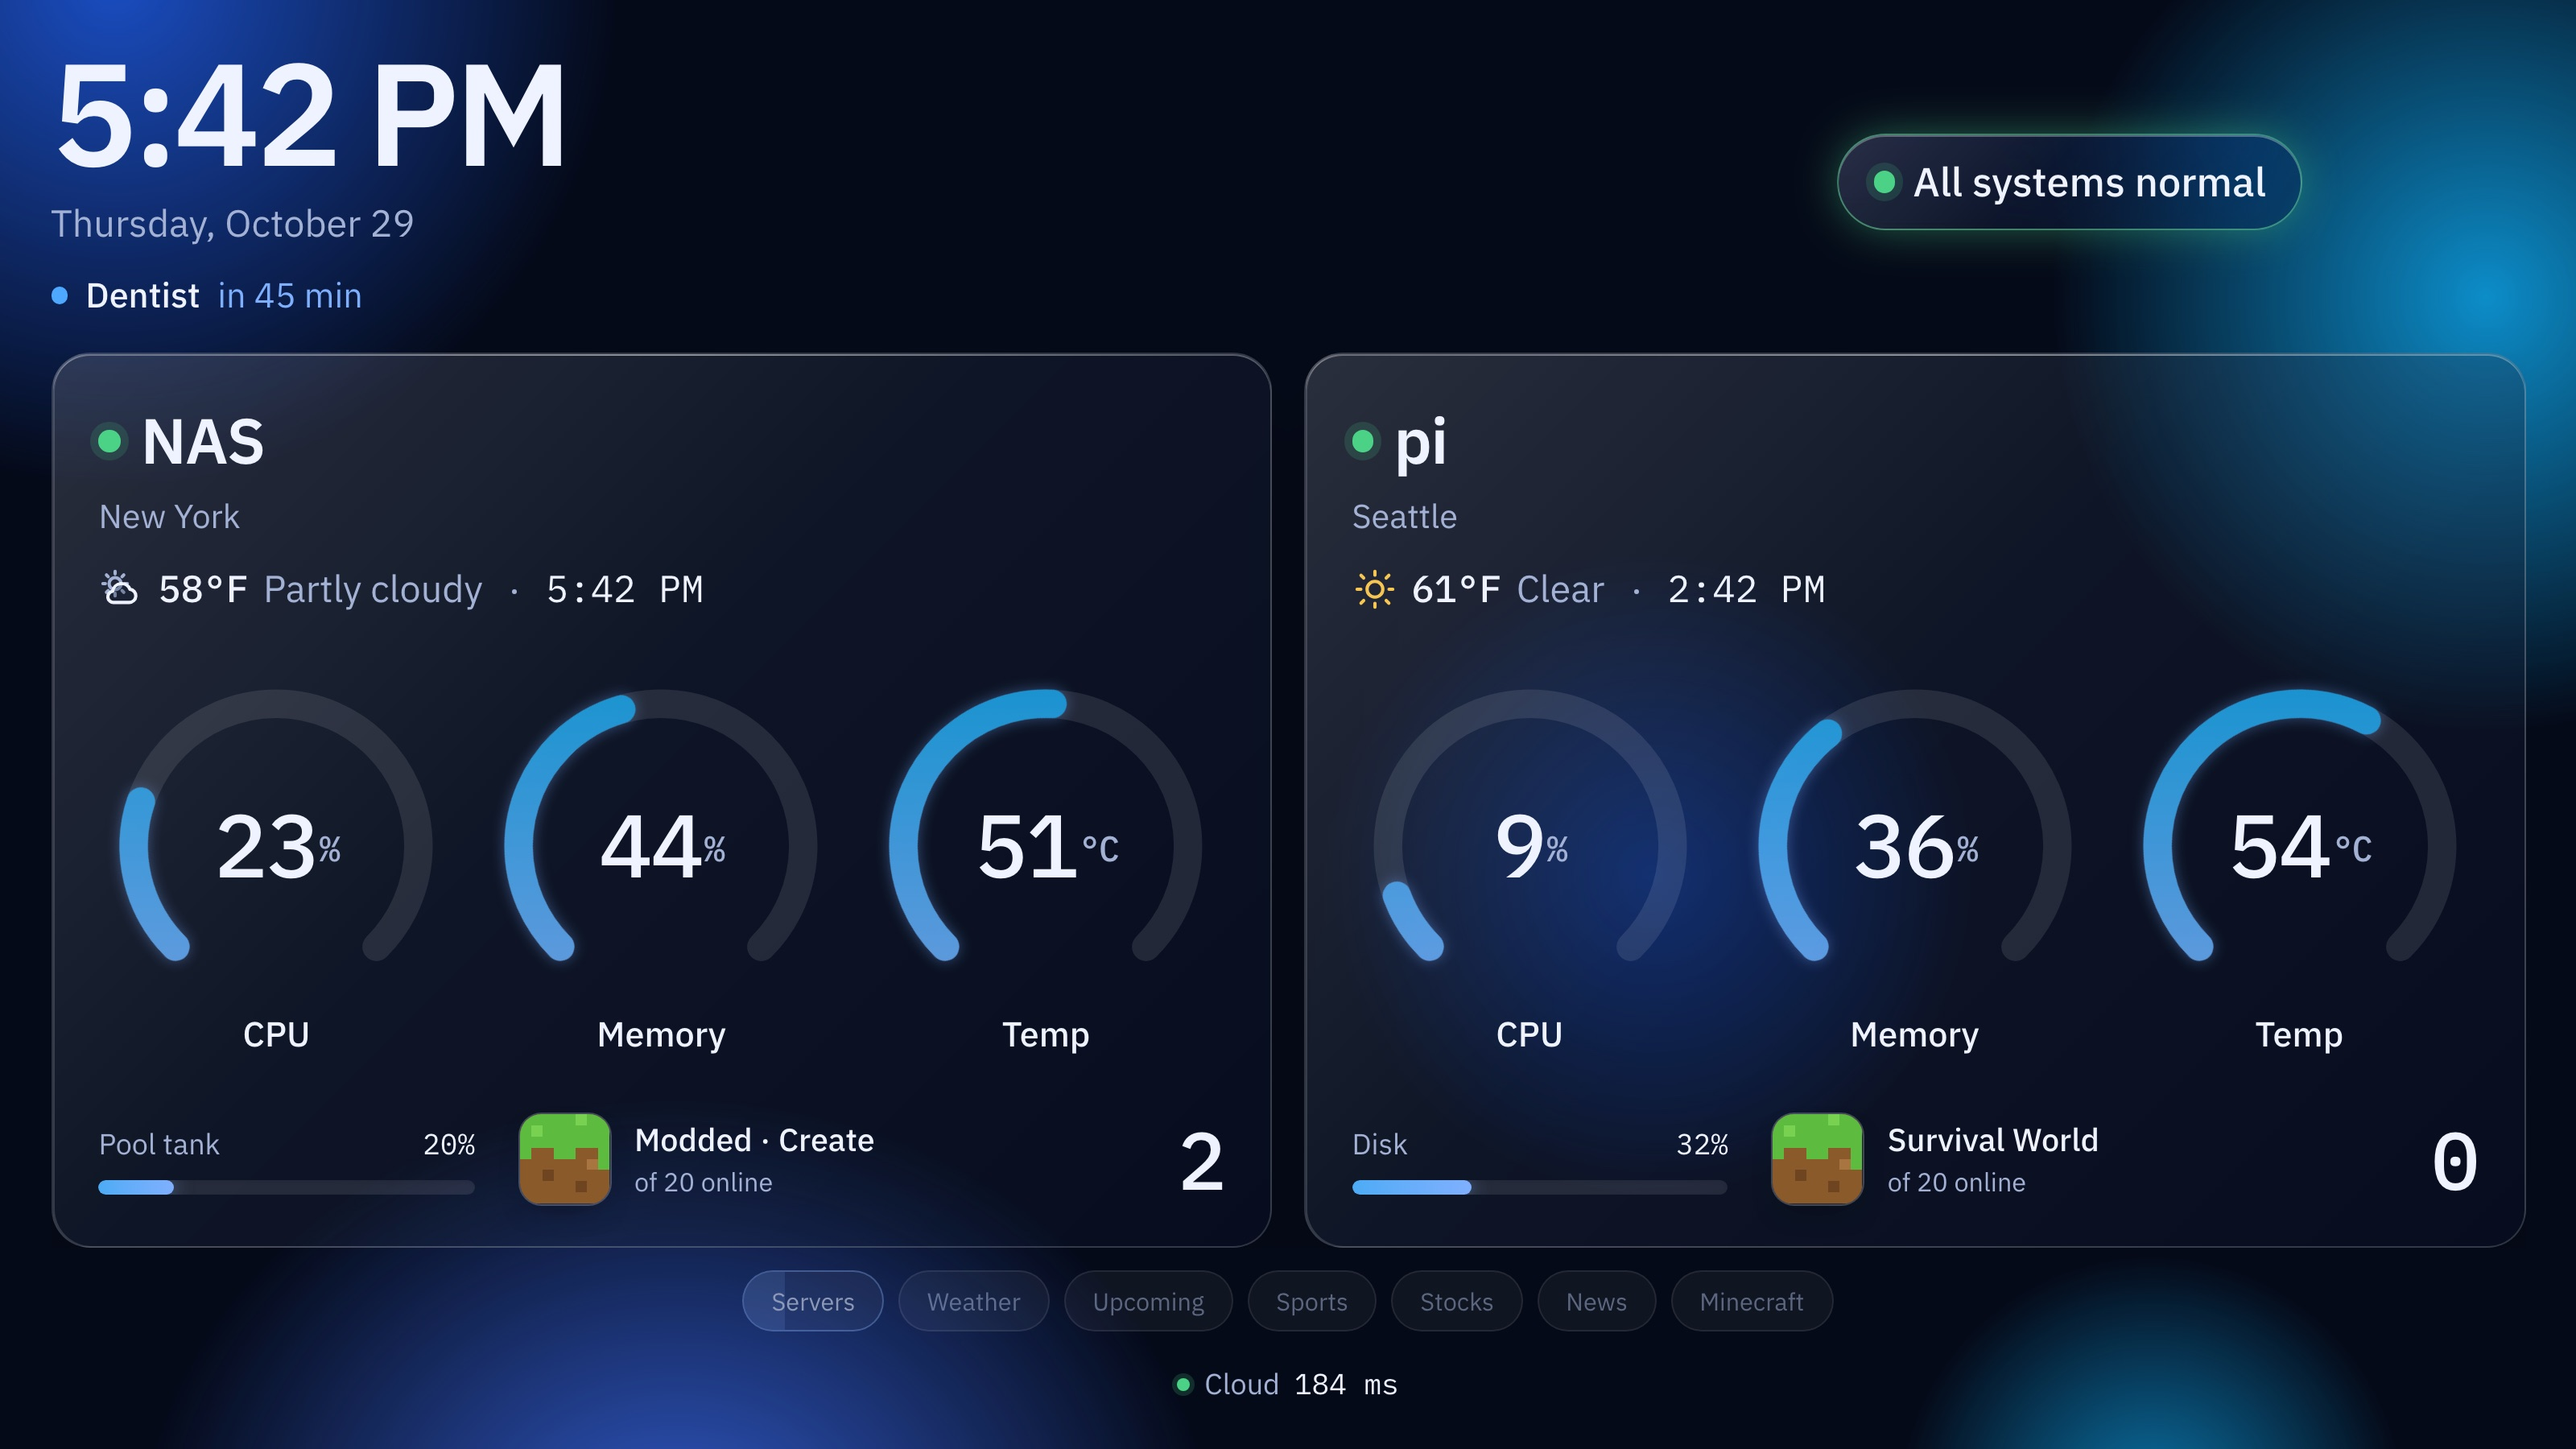
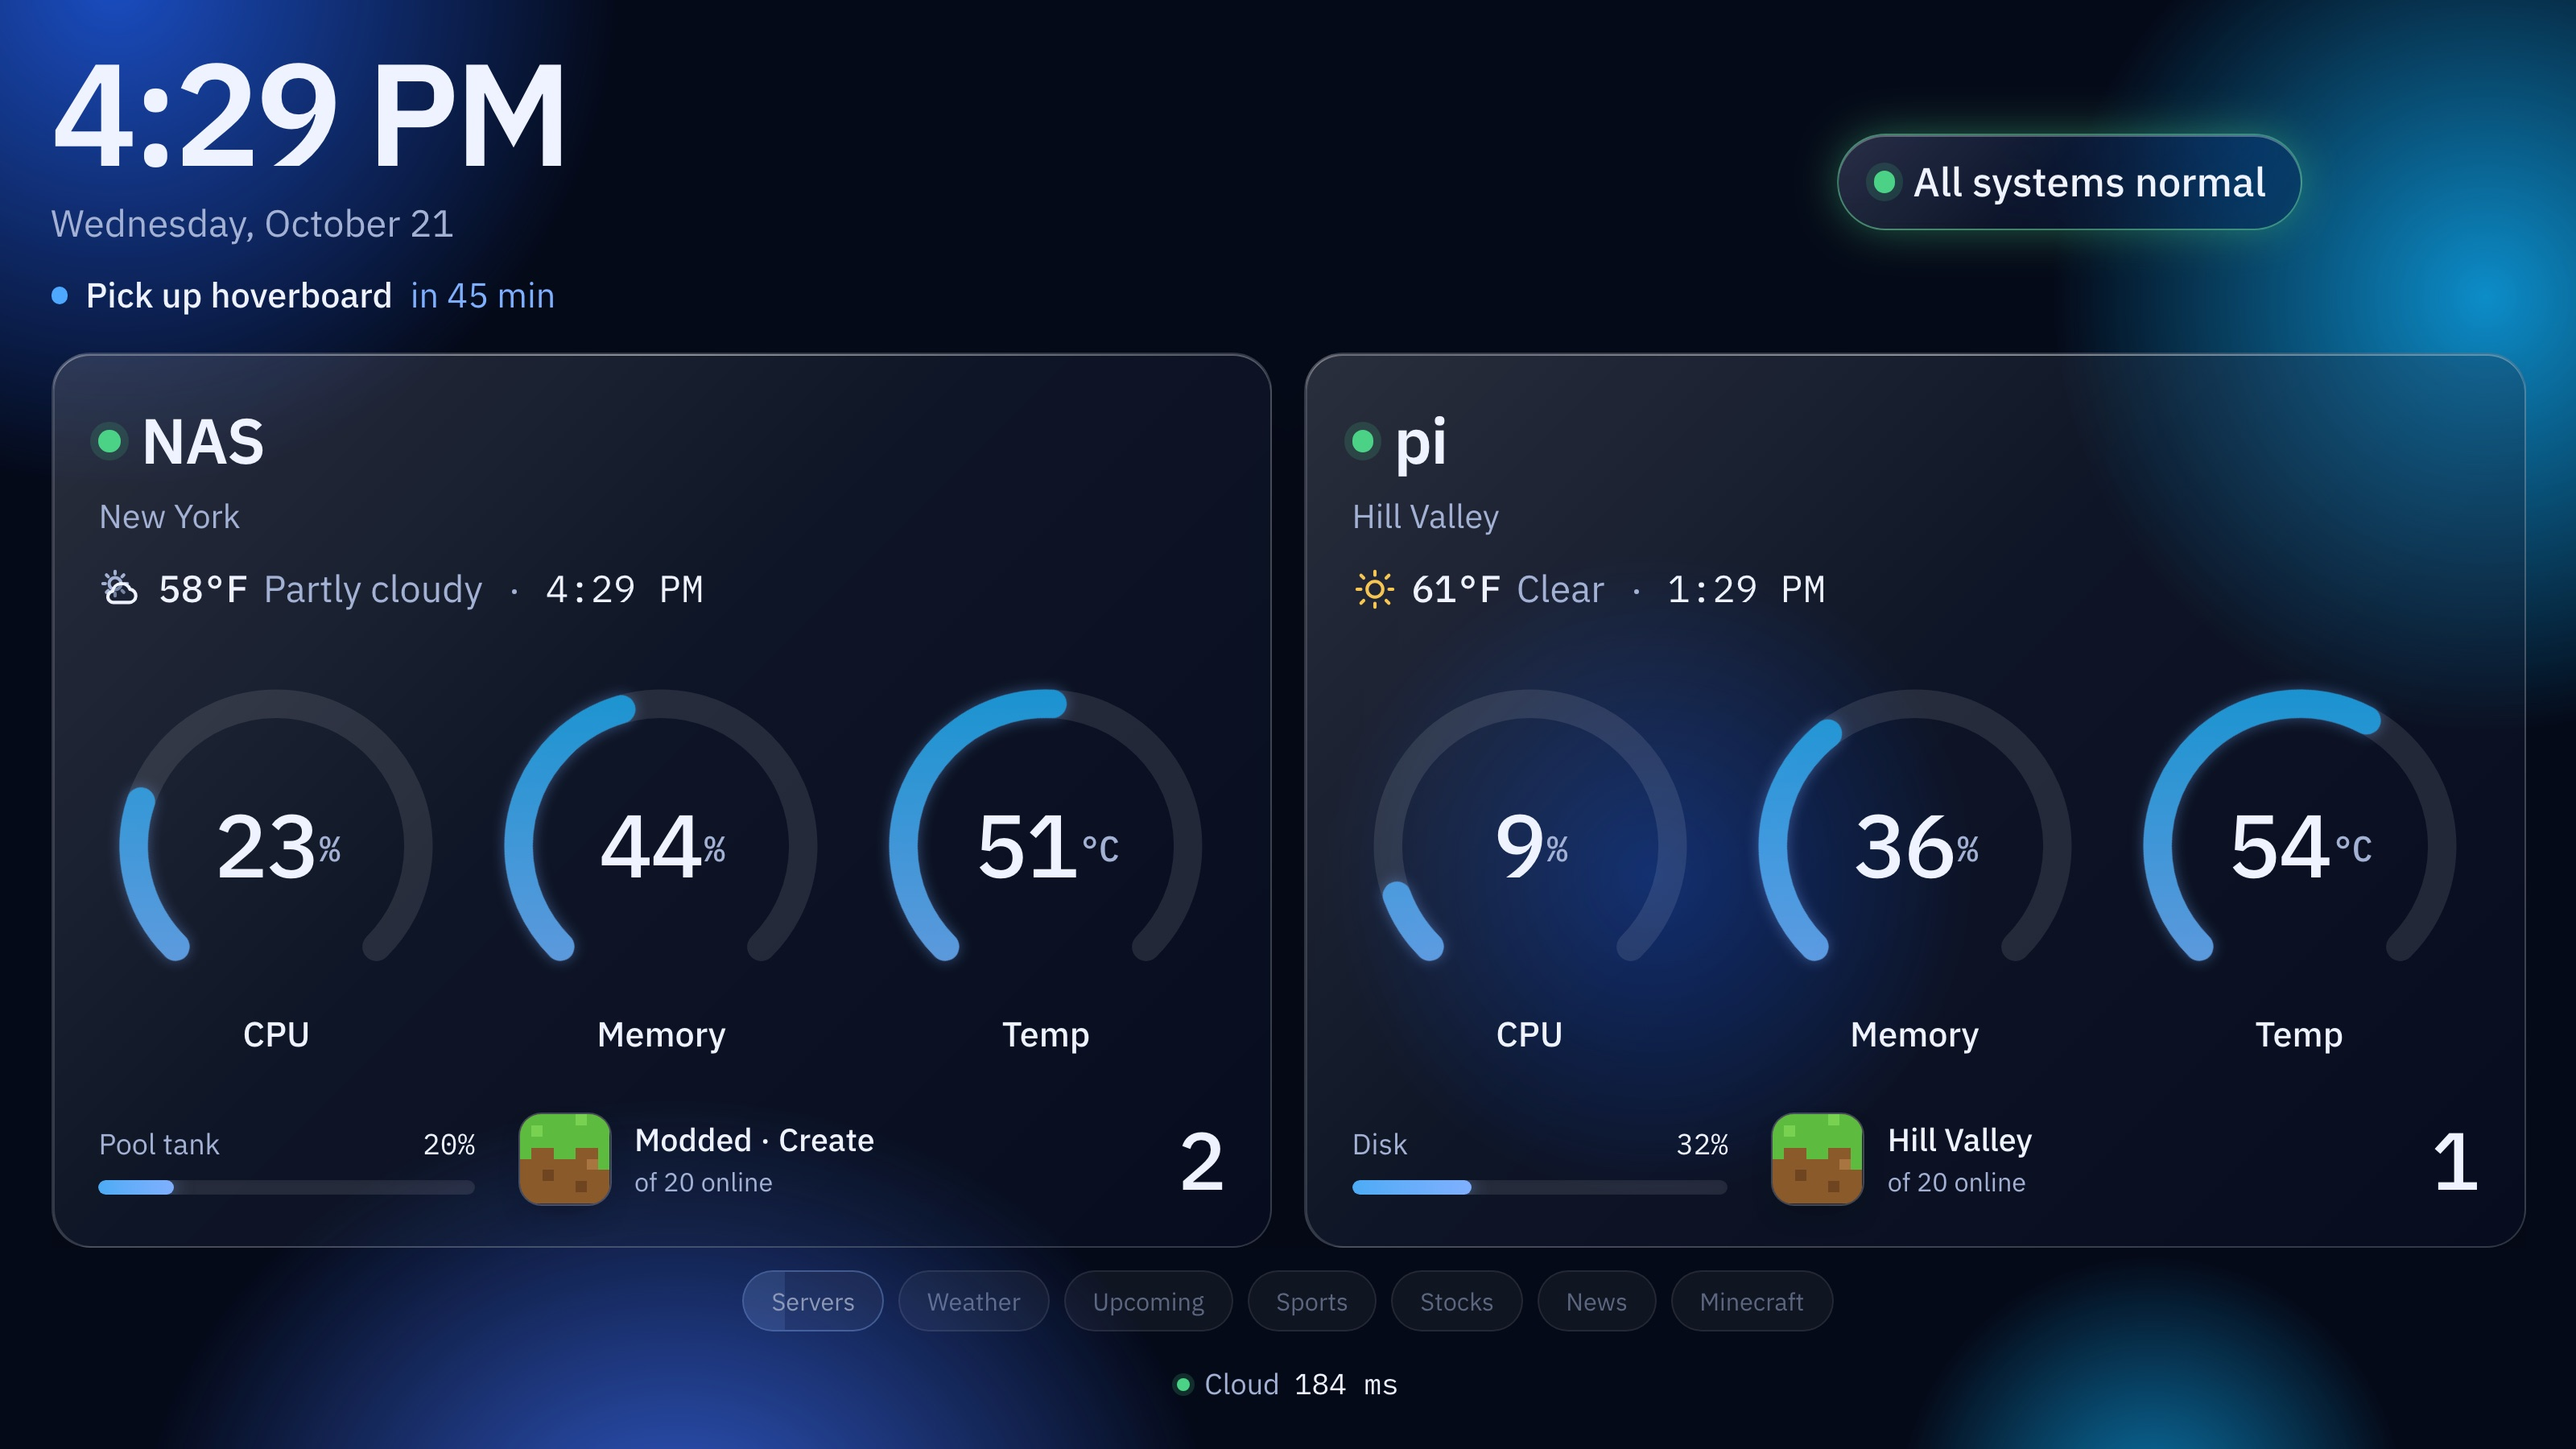
Screenshots and demo data with a few easter eggs

diff --git a/lib/demo.ts b/lib/demo.ts
@@ -51,7 +51,7 @@ function healthy(): Status {
           { board_vendor: "Gigabyte Technology Co., Ltd.", board_name: "B550M DS3H", kernel: "6.12.105-production+truenas" },
           "25.04.2",
         ),
-        minecraft: { label: "Modded · Create", address: "mc.example.com", online: true, players_online: 2, players_max: 20, players: ["Alex", "Steve"], version: "NeoForge 1.21.1", motd: "Create + Steam \x27n\x27 Rails", ping_ms: 3,
+        minecraft: { label: "Modded · Create", address: "mc.example.com", online: true, players_online: 2, players_max: 20, players: ["Marty", "Doc"], version: "NeoForge 1.21.1", motd: "Create + Steam \x27n\x27 Rails", ping_ms: 3,
           mods: {
             loader: "NeoForge 1.21.1",
             mods: [
@@ -63,13 +63,13 @@ function healthy(): Status {
           } },
       },
       {
-        id: "pi", name: "pi", location: "Seattle", kind: "pi", reachable: true,
+        id: "pi", name: "pi", location: "Hill Valley", kind: "pi", reachable: true,
         tz: "America/Los_Angeles", weather: { temp: 61, code: 0, is_day: true, high: 85, low: 72, unit: "F" },
         stats: { cpu_percent: 9.1, cores: 4, temp_c: 54.3, mem_used: 2.9 * GiB, mem_total: 8 * GiB, disk_used: 38 * GiB, disk_total: 117 * GiB, uptime_seconds: 302400, load: [0.38, 0.41, 0.36] },
         cpu_history: hist(8, 5),
         specs: piSpecs({ model: "Raspberry Pi 5 Model B Rev 1.1", cpu: "Arm Cortex-A76", cores: 4, cpu_max_mhz: 2400, mem_total: 7.87 * GiB,
           disk_size: 31914983424, disk_type: "microSD", os: "Debian GNU/Linux 13 (trixie)", kernel: "6.12.75+rpt-rpi-2712" }),
-        minecraft: { label: "Survival World", address: "", online: true, players_online: 0, players_max: 20, players: [], version: "1.21.10", motd: "Survival World", ping_ms: 41 },
+        minecraft: { label: "Hill Valley", address: "", online: true, players_online: 1, players_max: 20, players: ["Einstein"], version: "1.21.10", motd: "1.21 gigawatts", ping_ms: 41 },
       },
     ],
     links: [{ name: "Cloud", url: "https://cloud.example.com", up: true, code: 200, ms: 184 }],

diff --git a/lib/useCalendar.ts b/lib/useCalendar.ts
@@ -26,11 +26,12 @@ function demoCalendar(): CalendarData {
     updated: Date.now(),
     errors: [],
     events: [
-      ev("Dentist", "Personal", "#4ea8ff", soon.toISOString(), new Date(soon.getTime() + 3600e3).toISOString(), false, "Main St"),
-      ev("Minecraft build night", "Personal", "#4ea8ff", at(0, 20), at(0, 22)),
-      ev("Day off", "Work", "#34d3c0", day(1), day(2), true),
-      ev("Team sync", "Work", "#34d3c0", at(2, 10), at(2, 10, 30)),
-      ev("Swap Pi to SSD", "Personal", "#4ea8ff", at(3, 15), at(3, 16)),
+      ev("Pick up hoverboard", "Personal", "#4ea8ff", soon.toISOString(), new Date(soon.getTime() + 3600e3).toISOString(), false, "Courthouse Square"),
+      ev("Enchantment Under the Sea dance", "Personal", "#4ea8ff", at(0, 20), at(0, 22)),
+      ev("Lightning hits the clock tower", "Personal", "#4ea8ff", at(0, 22, 4), at(0, 22, 5)),
+      ev("Jaws 19 premiere", "Work", "#34d3c0", day(1), day(2), true),
+      ev("Lunch at Caf\u00e9 80\u2019s", "Work", "#34d3c0", at(2, 12), at(2, 13)),
+      ev("Refuel Mr. Fusion", "Personal", "#4ea8ff", at(3, 15), at(3, 16)),
     ],
   };
 }

diff --git a/components/Scoreboard.tsx b/components/Scoreboard.tsx
@@ -248,8 +248,8 @@ function demoGames(): LiveGame[] {
       broadcast: "FOX",
       away: { abbr: "BOS", name: "Red Sox", color: "#bd3039", score: 3, record: "97-65", lines: [0, 1, 0, 2, 0, 0, 0], mine: false, hits: 7, errors: 1, logo: "https://a.espncdn.com/i/teamlogos/mlb/500/bos.png" },
       home: { abbr: "NYY", name: "Yankees", color: "#0c2340", score: 4, record: "92-70", lines: [1, 0, 0, 0, 3, 0, 0], mine: true, hits: 8, errors: 0, logo: "https://a.espncdn.com/i/teamlogos/mlb/500/nyy.png" },
-      situation: { balls: 2, strikes: 1, outs: 1, bases: [true, false, true], batter: "J. Smith", pitcher: "D. Jones" },
-      lastPlay: "Single to right field, runner to third.",
+      situation: { balls: 2, strikes: 1, outs: 1, bases: [true, false, true], batter: "B. Tannen", pitcher: "G. McFly" },
+      lastPlay: "Tannen fouls one off the clock tower. Make like a tree.",
     },
   ];
 }

diff --git a/components/home/CountdownsCard.tsx b/components/home/CountdownsCard.tsx
@@ -27,9 +27,9 @@ export default function CountdownsCard({ now, demo }: { now: number; demo: boole
     if (demo) {
       const inDays = (n: number) => new Date(Date.now() + n * 86400000).toISOString().slice(0, 10);
       setList([
-        { id: "a", title: "Winter break", date: inDays(52) },
-        { id: "b", title: "Minecraft 1.22 drops", date: inDays(9) },
-        { id: "c", title: "Domain renewal", date: inDays(260) },
+        { id: "a", title: "Hit 88 mph", date: inDays(88) },
+        { id: "b", title: "Self-lacing shoes ship", date: inDays(9) },
+        { id: "c", title: "Trip back to 1985", date: inDays(5) },
       ]);
       return;
     }
